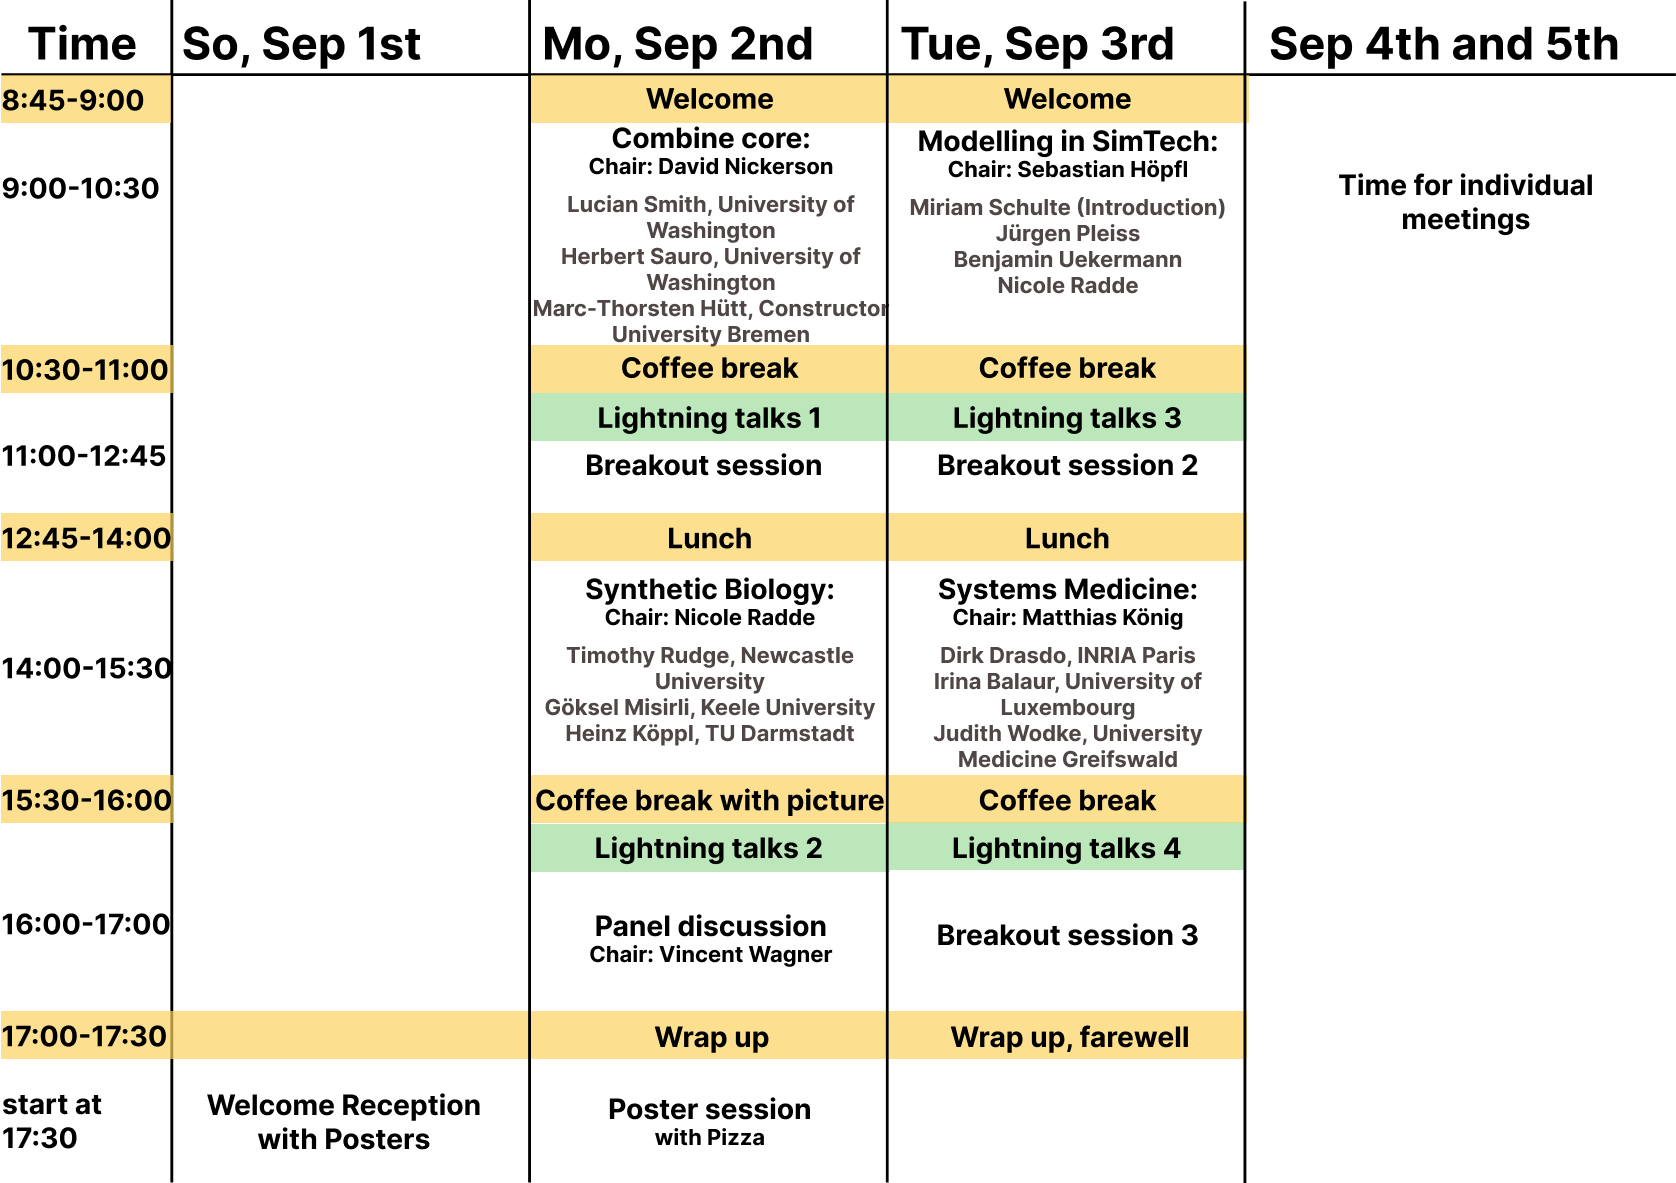
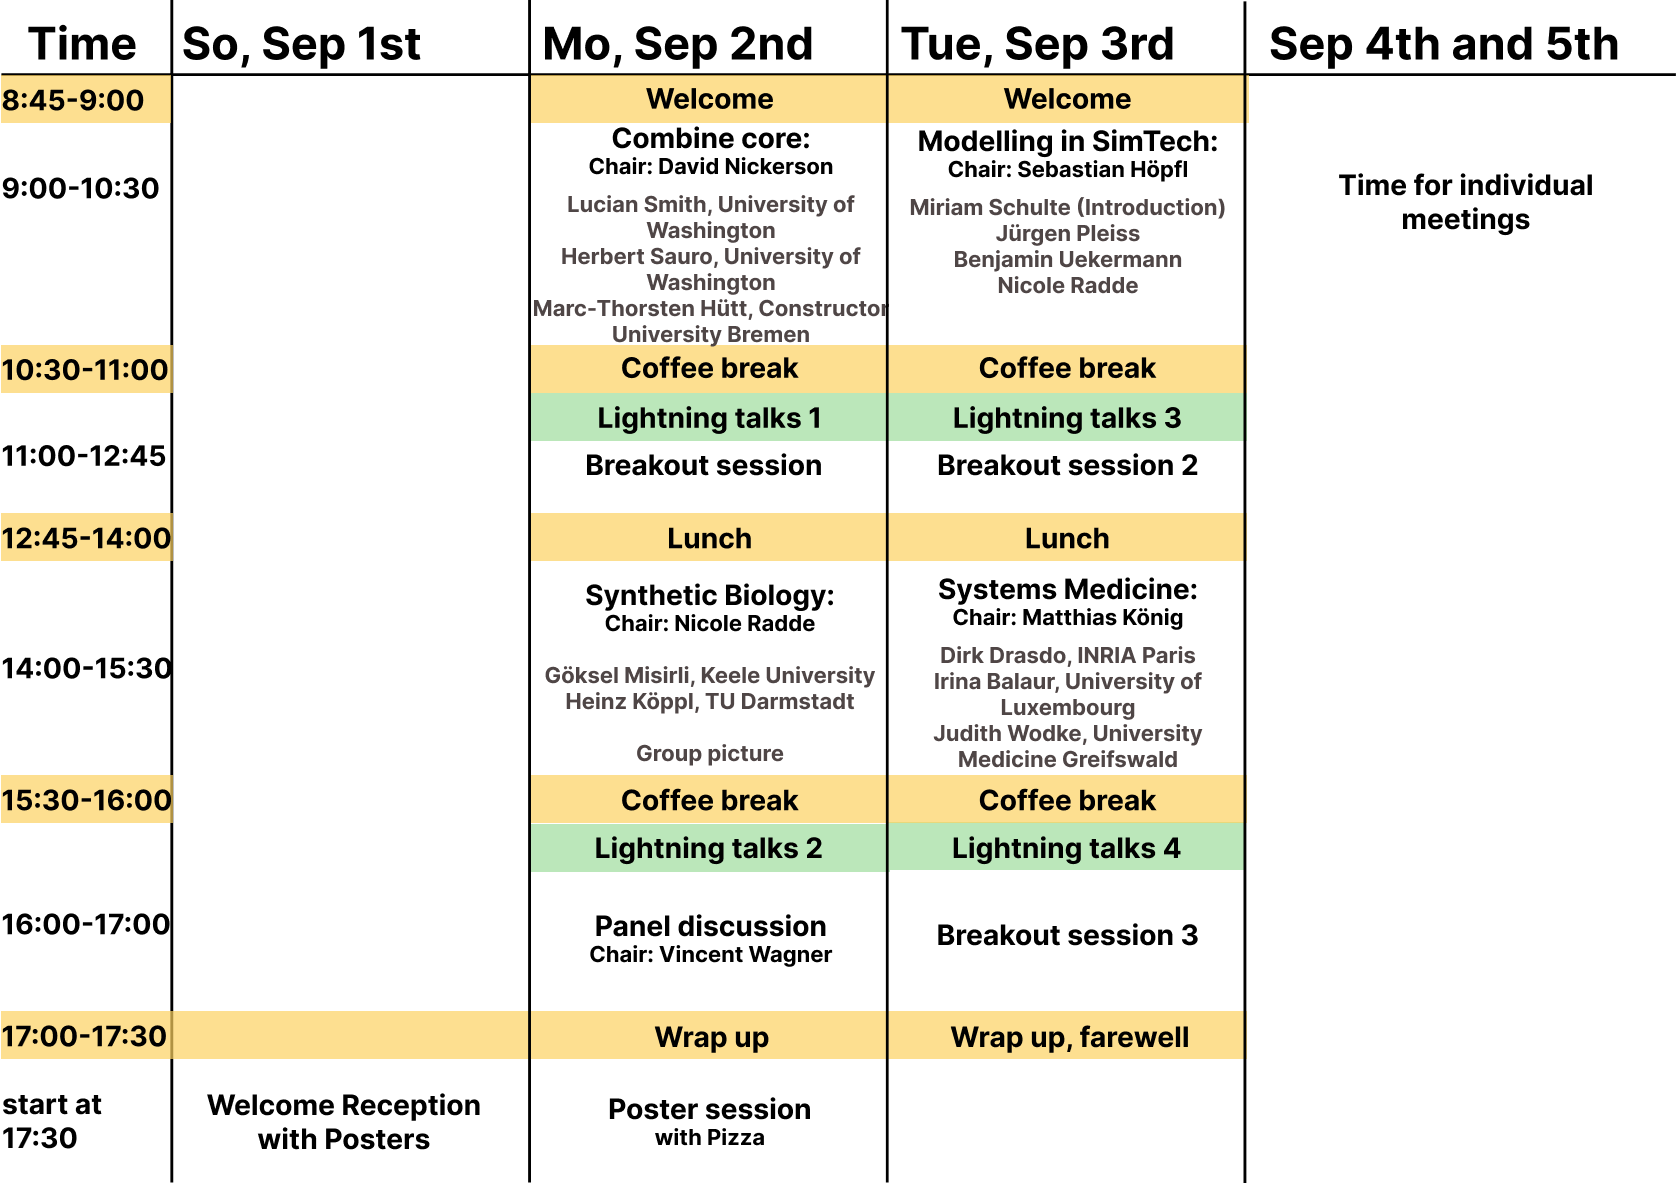
Timothy Rudge will not attend

Changed region(s): [[0.3103, 0.4869, 0.5274, 0.6999]]

diff --git a/content/authors/COMBINE_2024/_index.md b/content/authors/COMBINE_2024/_index.md
@@ -76,7 +76,6 @@ Local organizers are Nicole Radde (nicole.radde@simtech.uni-stuttgart.de) and Se
   <li>Heinz Köppl, TU Darmstadt, Germany</li>
   <li>Göksel Misirli, Keele University, United Kingdom</li>
   <li>David Nickerson, Auckland Bioengineering Institute, University of Auckland, New Zealand</li>
-  <li>Timothy Rudge, Newcastle University, United Kingdom</li>
   <li>Herbert Sauro, University of Washington, USA</li>
   <li>Lucian Smith, University of Washington, USA</li>
   <li>Judith Wodke, University Medicine Greifswald, Germany</li>
@@ -205,8 +204,6 @@ The essence of cellular function is to maintain a non-equilibrium state through 
  <br>
 Engineering genetic regulatory circuits that sense external molecules and respond is essential for developing diverse biological applications. As the complexity of designs increases, a model-driven design process becomes desirable to explore large design spaces that involve different biological parts and parameters. Moreover, the amount of these molecules reaching a receiver is usually assumed to be constant, and the diffusion dynamics and the interference caused by late-arriving molecules and the cellular dynamics are often not integrated. Additionally, each molecule type may represent a single biological signal and be unsuitable for encoding and decoding multiple data bits. Here, we present the virtual parts repository, a computational framework that provides modular, reusable and composable models. The framework facilitates automating the design of predictable applications via simulations. It builds on the Systems Biology Markup Language to model cellular behaviour and the Synthetic Biology Open Language to capture the details of genetic circuits. We then extend this automation approach to design the end-to-end transmission of signalling molecules from a transmitter to cellular receivers for multi-bit data communications. The resulting framework can be used to understand the cellular response for a sequence of custom data bits, each representing a group of molecules released from a transmitter and diffusing over a molecular channel. The framework validates and verifies various communication parameters and identifies the best communication scenarios. We also present a novel algorithm to minimise signal interference by employing equalisation techniques from communication theory. Our data standards-enabled and multi-scale modelling workflow combines engineering genetic circuits and molecular diffusion dynamics to encode and decode data bits, design efficient cellular signals, minimise noise, and develop biologically plausible applications.
 
-<b> tba </b> Timothy Rudge
- <br>
 
 <b> The past, present and possible futures </b> Herbert Sauro
  <br>
